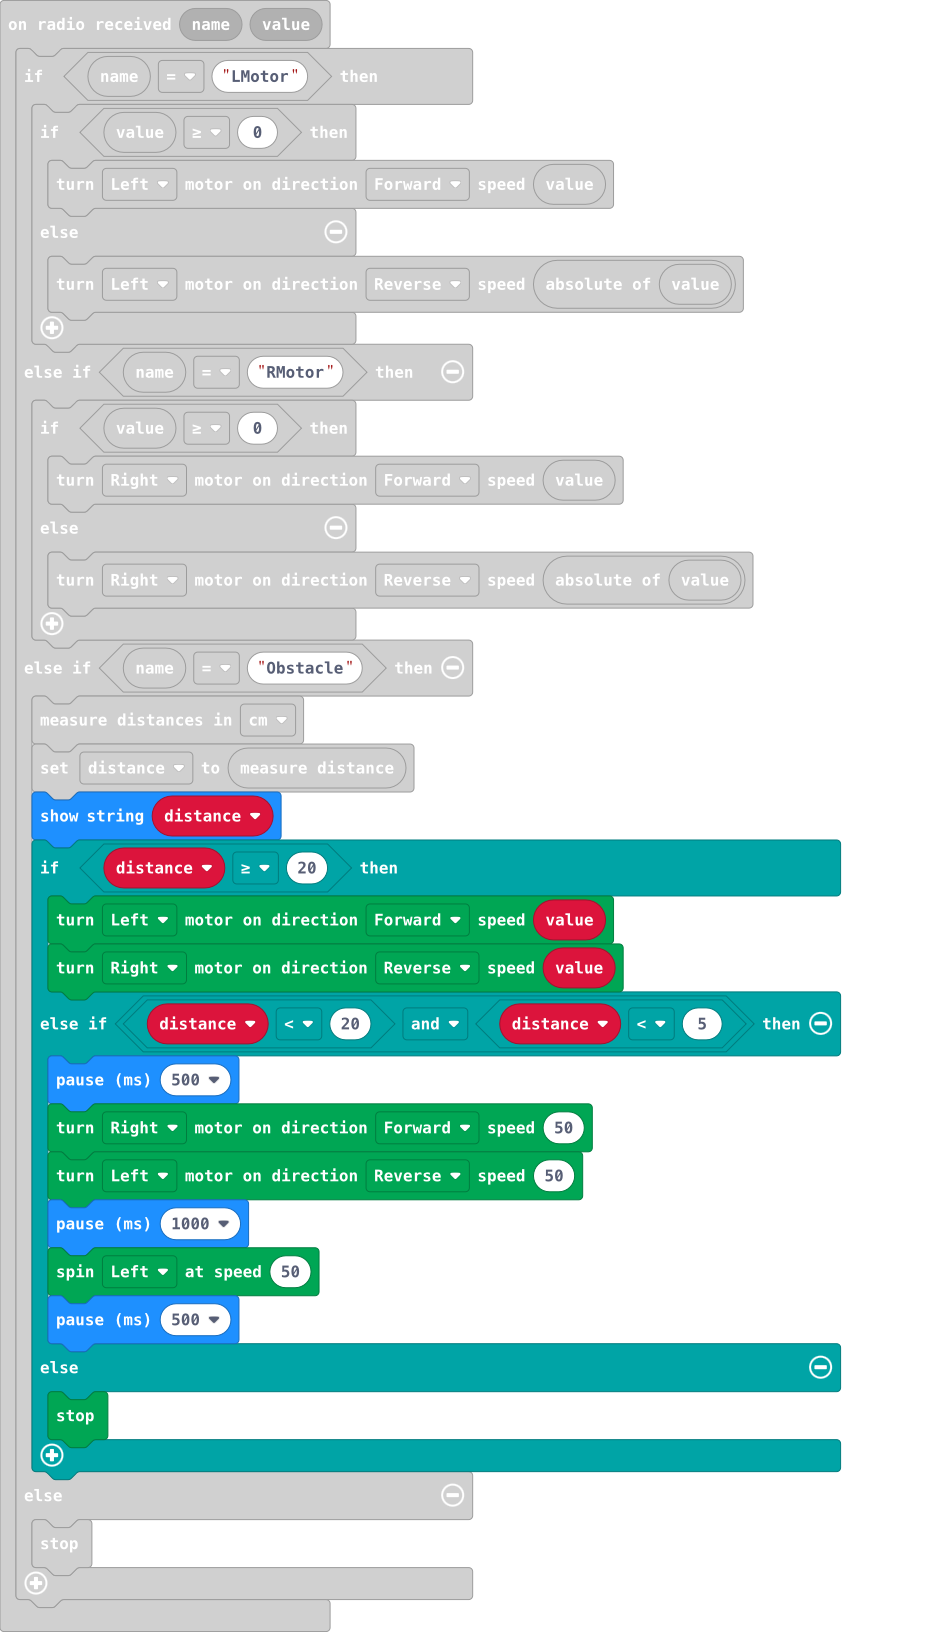
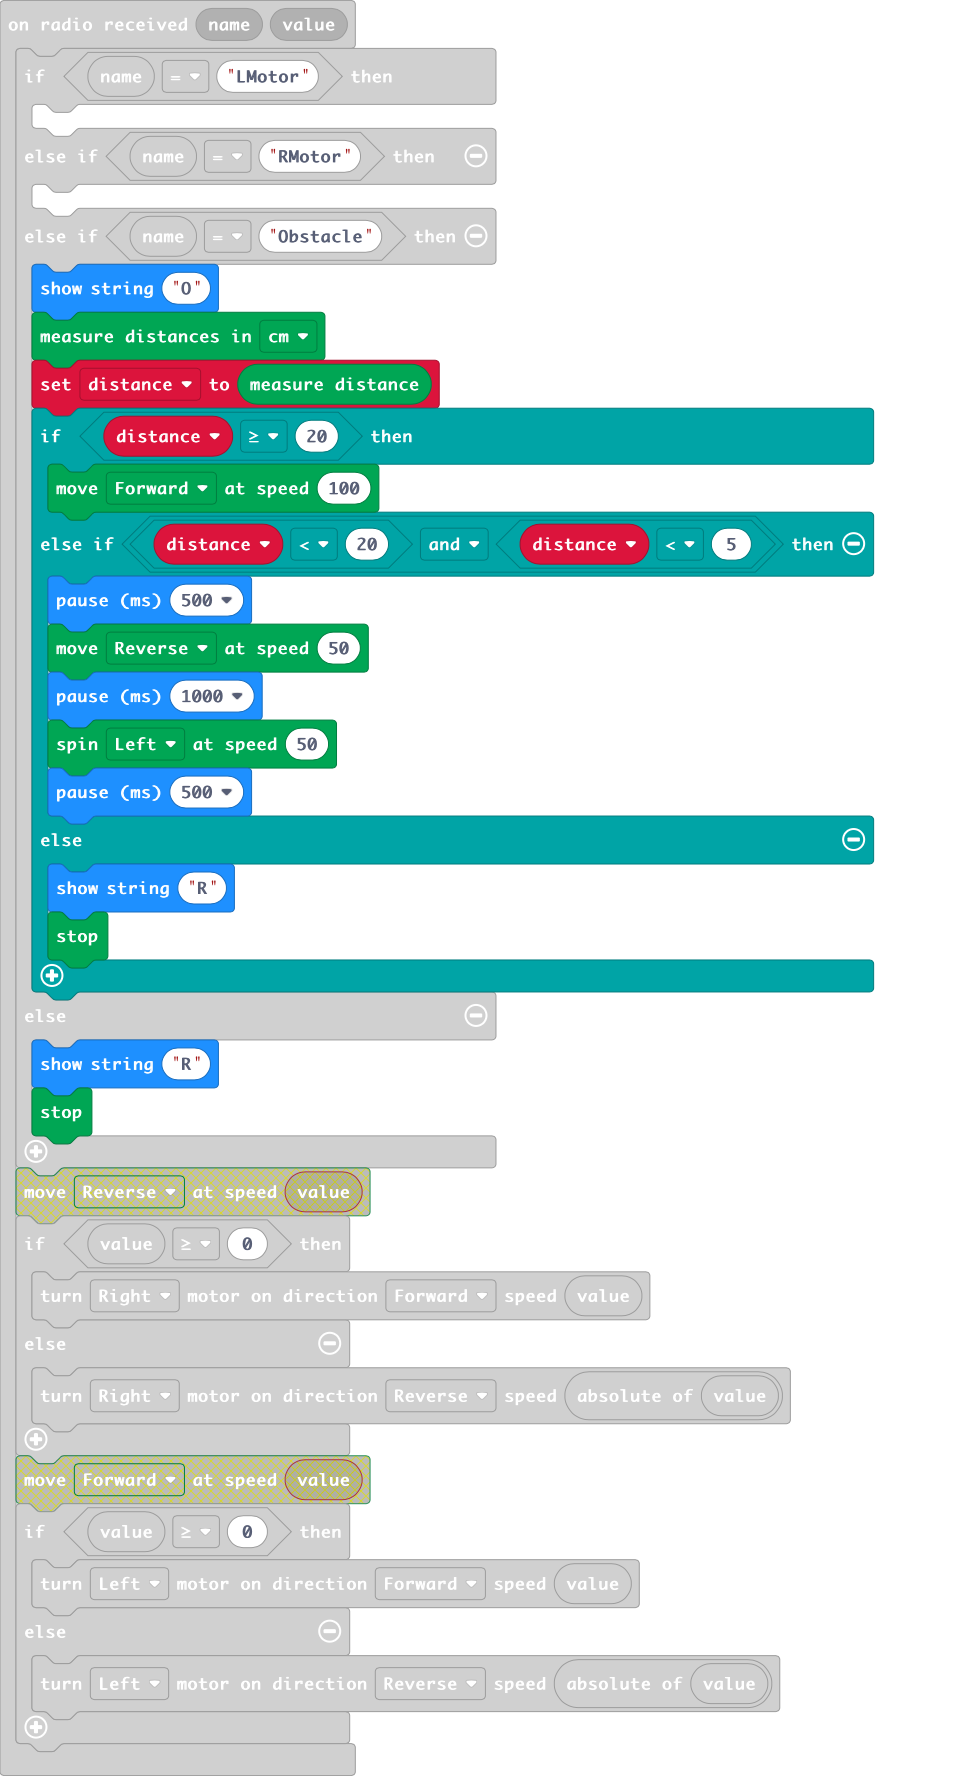
Update main.blocks, main.ts

diff --git a/main.ts b/main.ts
@@ -12,6 +12,7 @@ radio.onReceivedValue(function (name, value) {
             Kitronik_Move_Motor.motorOn(Kitronik_Move_Motor.Motors.MotorRight, Kitronik_Move_Motor.MotorDirection.Reverse, Math.abs(value))
         }
     } else if (name == "Obstacle") {
+        basic.showString("O")
         Kitronik_Move_Motor.setUltrasonicUnits(Kitronik_Move_Motor.Units.Centimeters)
         distance = Kitronik_Move_Motor.measure()
         basic.showString("" + (distance))
@@ -26,9 +27,11 @@ radio.onReceivedValue(function (name, value) {
             Kitronik_Move_Motor.spin(Kitronik_Move_Motor.SpinDirections.Left, 50)
             basic.pause(500)
         } else {
+            basic.showString("R")
             Kitronik_Move_Motor.stop()
         }
     } else {
+        basic.showString("R")
         Kitronik_Move_Motor.stop()
     }
 })
